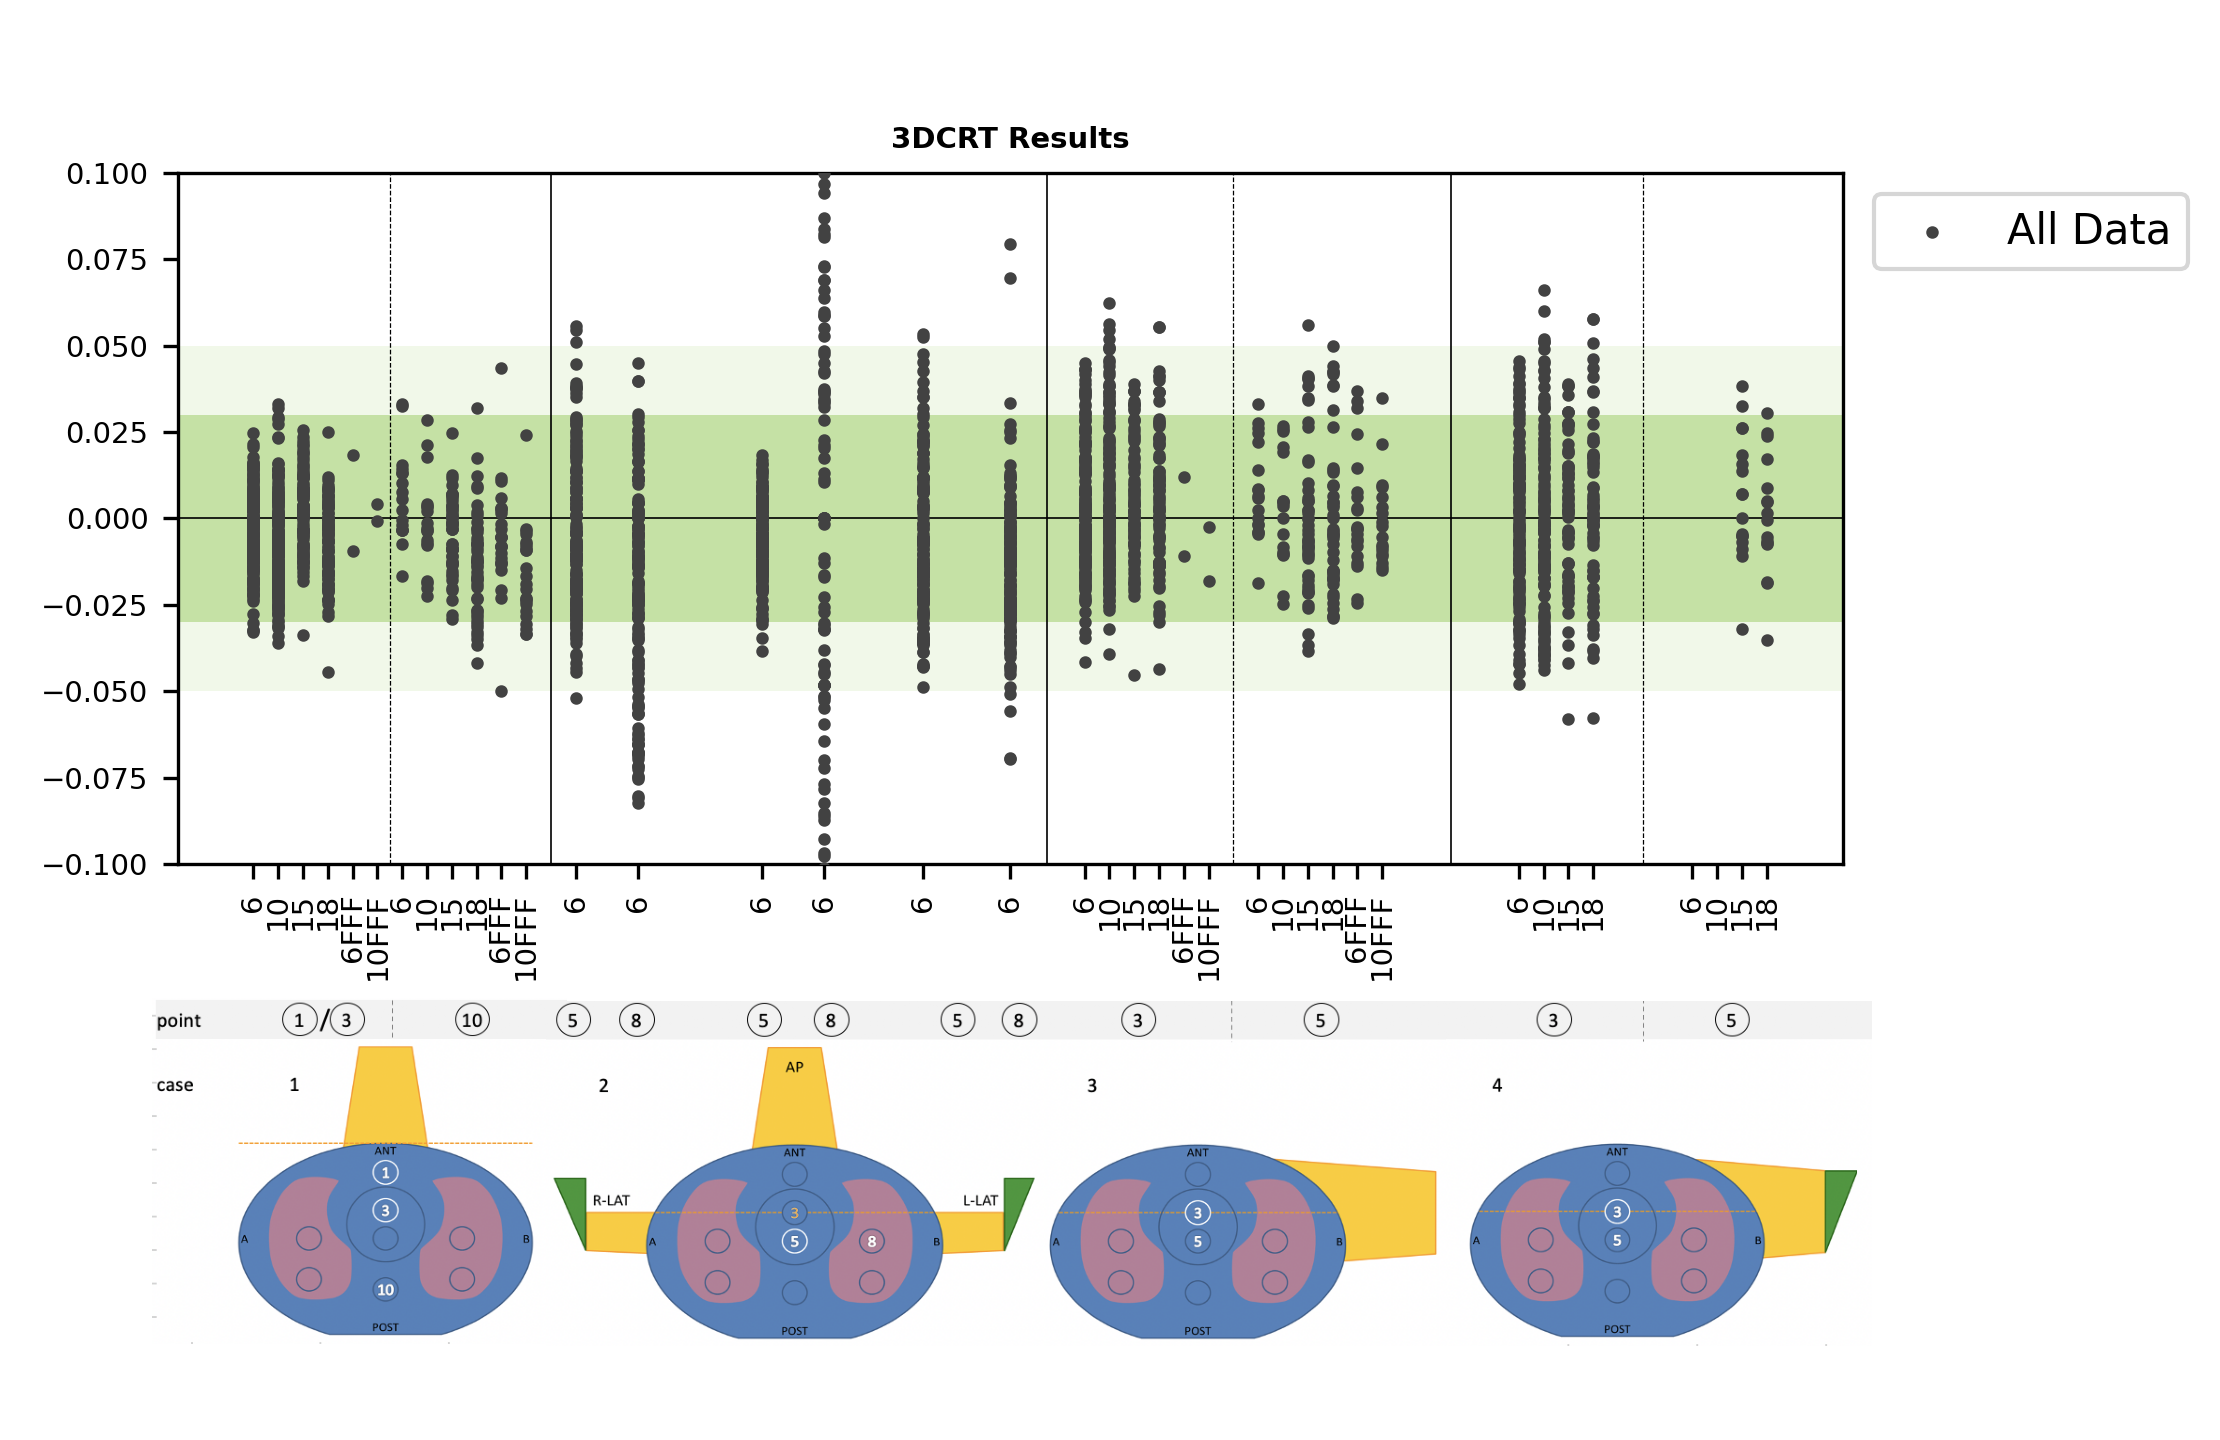
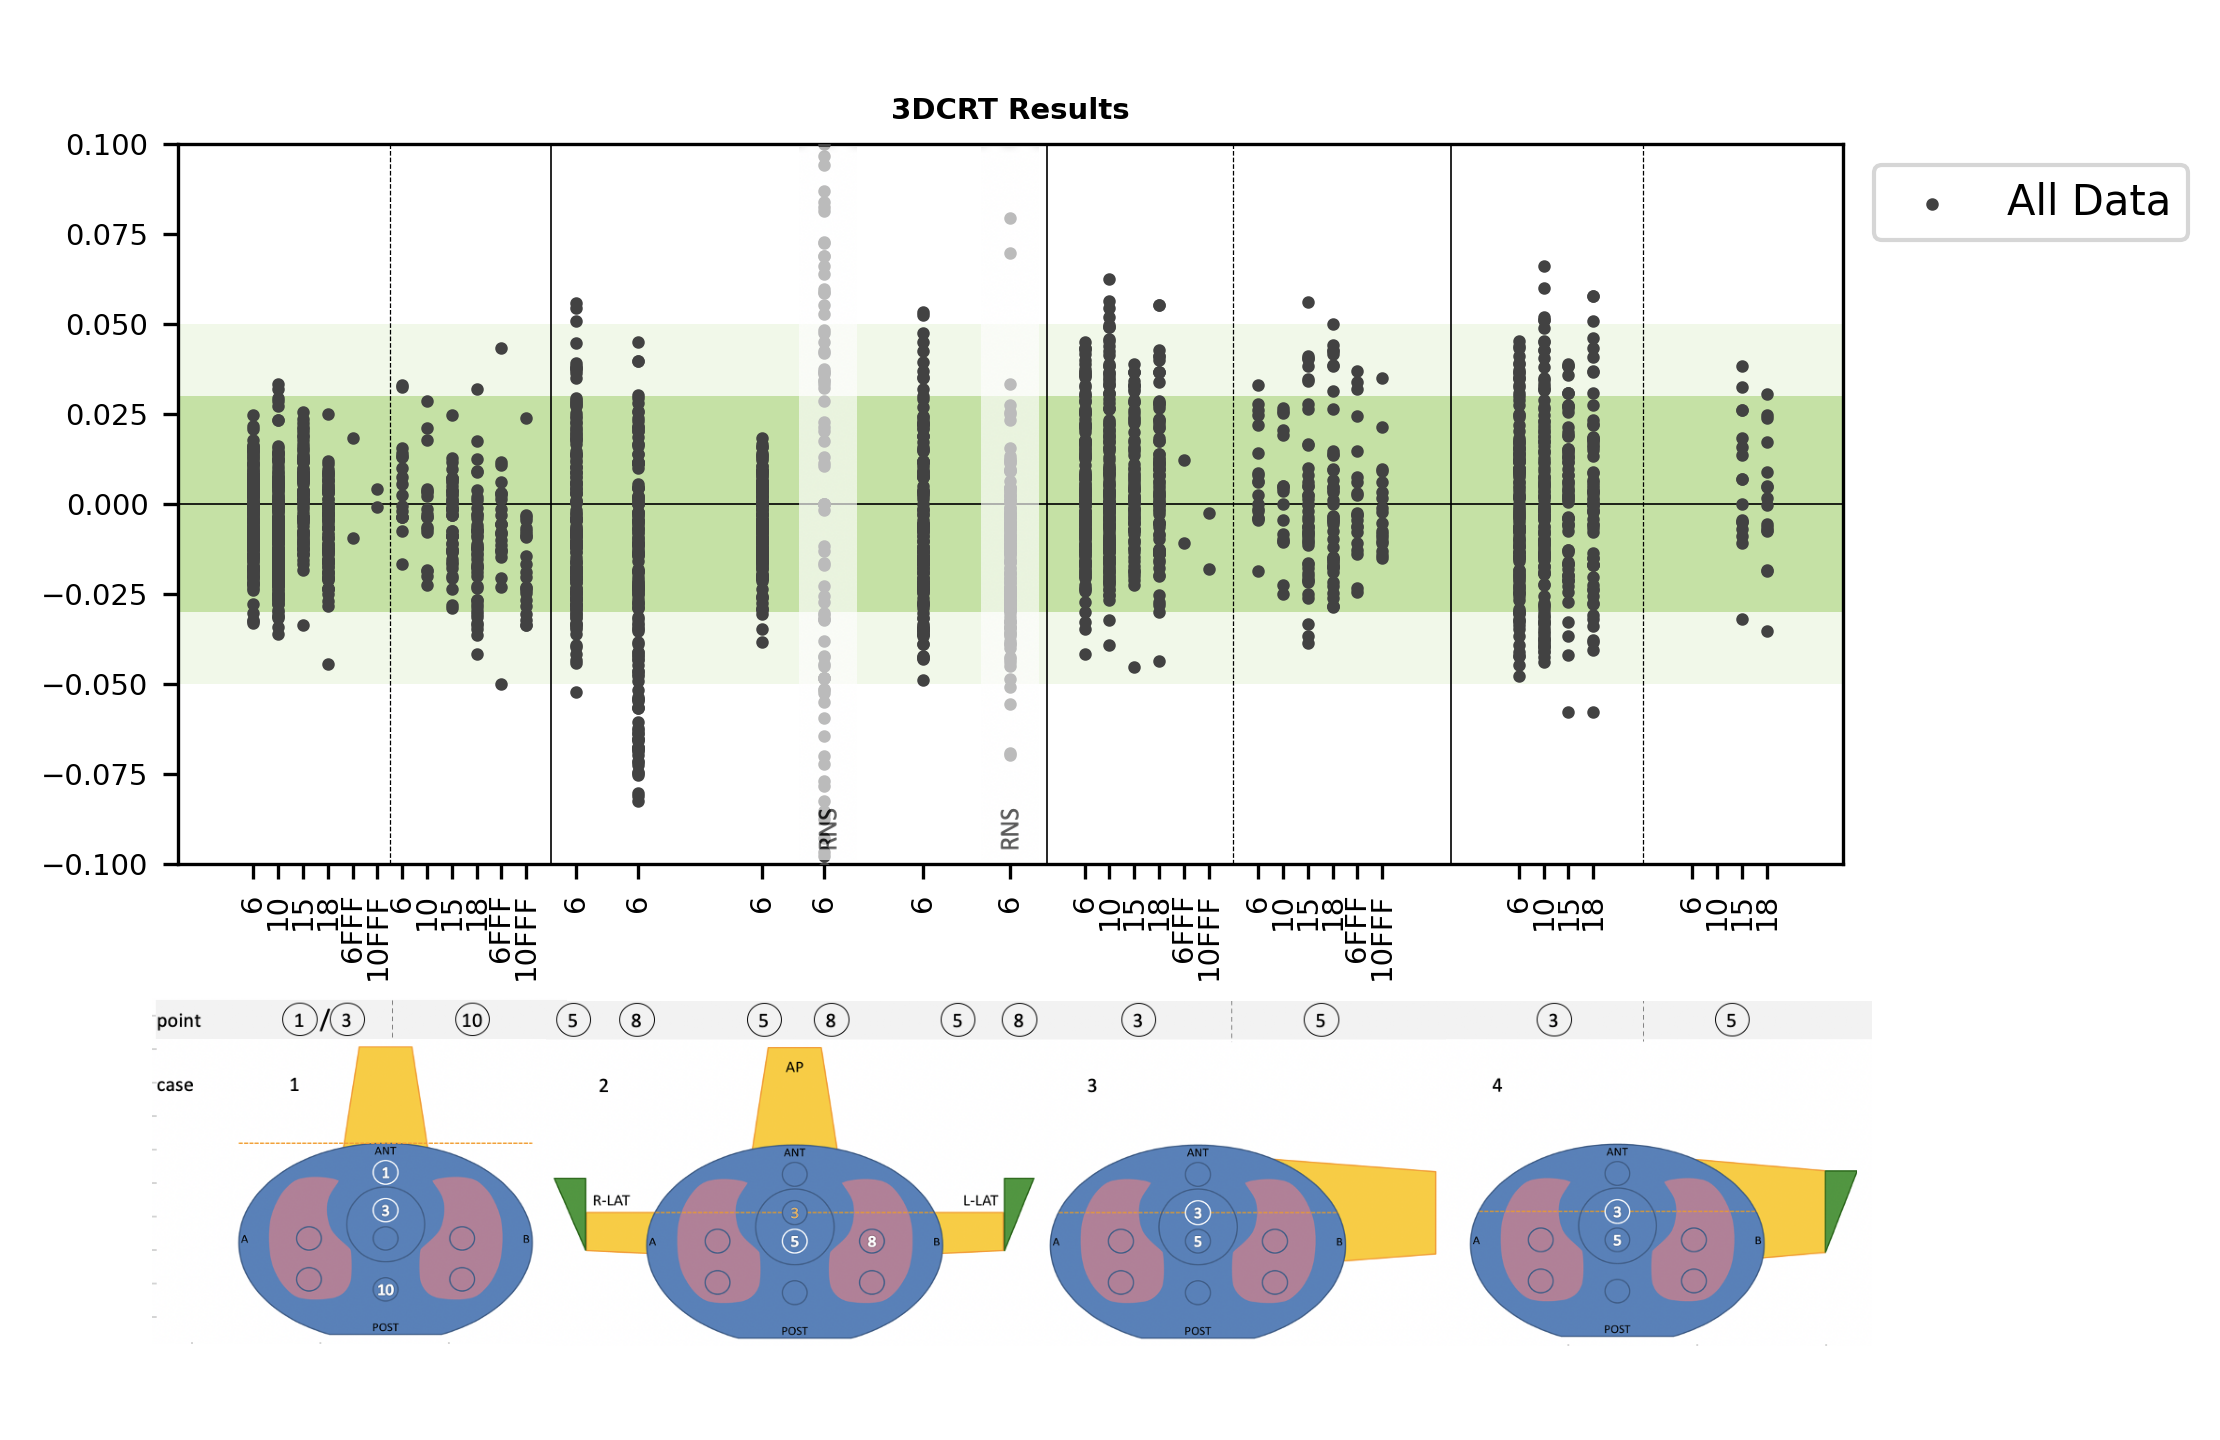
RNS added

diff --git a/plot3DCRT.py b/plot3DCRT.py
@@ -12,6 +12,7 @@ def all_data():
     image2Path = '/Users/jcl/Desktop/AABKoala/images/case2.png'
     image3Path = '/Users/jcl/Desktop/AABKoala/images/case3.png'
     image4Path = '/Users/jcl/Desktop/AABKoala/images/case4.png'
+    RNS_path = '/Users/jcl/Desktop/AABKoala/images/RNS.png'
     # load 3DCRT data
     df = pd.read_excel("./Book1.xlsx")
     print(df)
@@ -59,7 +60,7 @@ def all_data():
     # ax.set_facecolor("#99FF99")
 
     # set white margins
-    plt.subplots_adjust(left=0.08, right=0.83, bottom=0.4)
+    plt.subplots_adjust(left=0.08, right=0.83, bottom=0.4, top=0.9)
 
     # set legend
     plt.legend([allData], ['All Data'], bbox_to_anchor=(1.22, 1))
@@ -91,6 +92,16 @@ def all_data():
     image4ax = fig.add_axes([0.603, 0.065, 0.24, 0.24], anchor='NE', zorder=3)
     image4ax.imshow(case_image)
     image4ax.axis('off')
+
+    # add RSN
+    RNS_image = plt.imread(get_sample_data(RNS_path))
+    RNSax = fig.add_axes([-0.014, 0.403, 0.4, 0.495], anchor='NE', zorder=3)
+    RNSax.imshow(RNS_image, alpha=0.65)
+    RNSax.axis('off')
+    RNS_image = plt.imread(get_sample_data(RNS_path))
+    RNSax2 = fig.add_axes([0.068, 0.403, 0.4, 0.495], anchor='NE', zorder=3)
+    RNSax2.imshow(RNS_image, alpha=0.65)
+    RNSax2.axis('off')
 
     # save fig
     plt.savefig("3DCRT.png", dpi=300)
